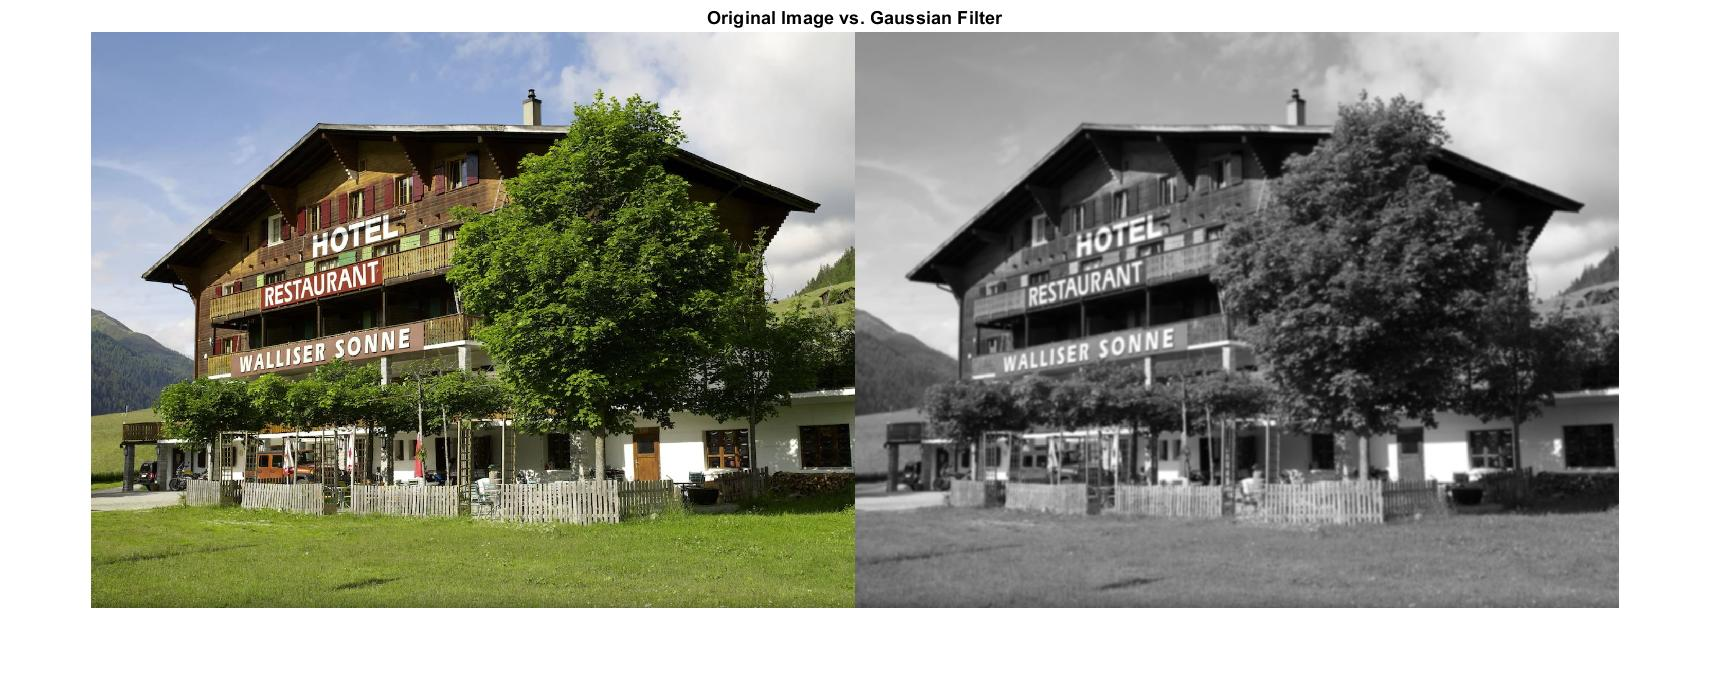
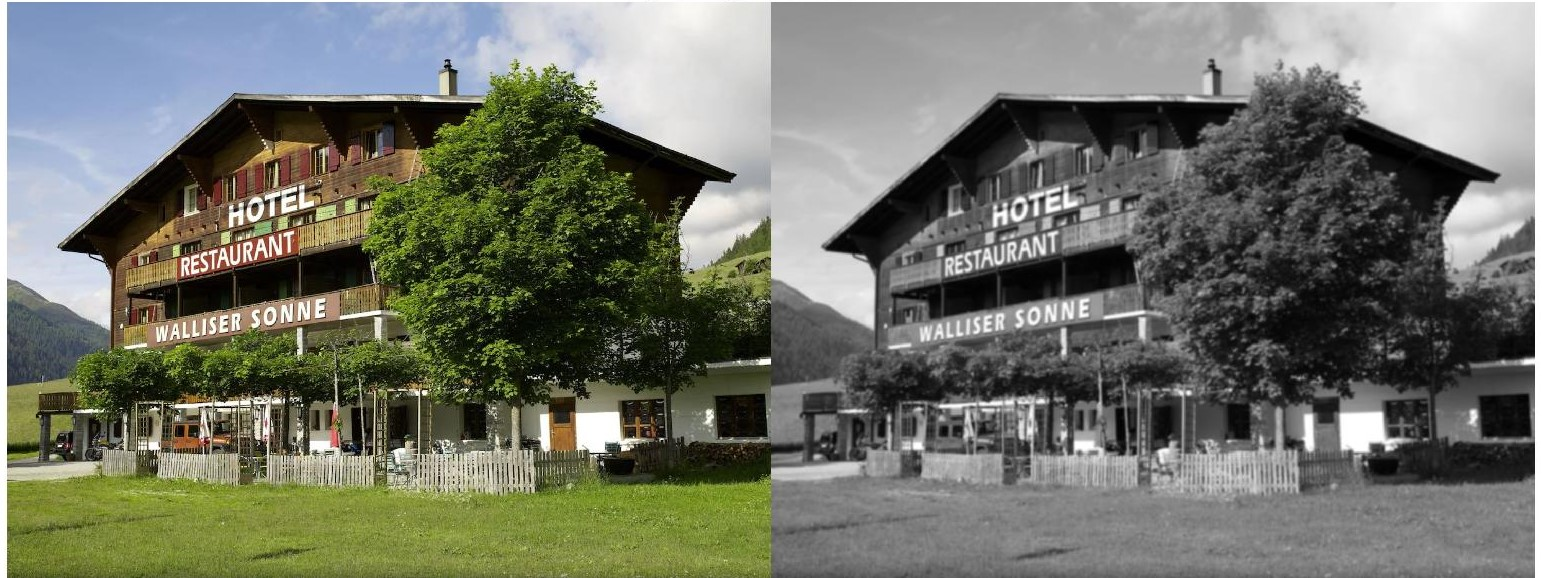
finished Sobel section

diff --git a/sobelFilter.html b/sobelFilter.html
@@ -42,31 +42,43 @@
                     <h2>Image Filtering for Mapping</h2>
                     <p>Personal Project - December 2022</p>
                 </header>
+                
+                <span class="image fit"><img src="images/sobel/montage.jpg" alt="Sobel Edge Detection Output" /></span>
 
                 <!-- Background -->
                 <section id="background">
                     <h2>Background</h2>
                     <p>
-                        Robotics is an interdisciplinary field requiring expertise in computer science, mechanical design, electronics, and applied mathematics. Autonomous robots often rely on image 
-                        processing to navigate and make decisions effectively. This project focuses on a crucial aspect of robotics: reducing the computational burden of image data through filtering.
+                        Modern autonomous robots rely heavily on imaging in order to navigate their environments. Imaging technology comes
+                        in a variety of styles ranging from Lidar to standard cameras that operate within the visible spectrum. Cameras provide
+                        the robot with necessary information for path planning and localization. Yet, there is an inherent problem with imaging
+                        technology: it is too information-dense. What does this mean? A typical camera provides a surfeit of data every second.
+                        It is not possible for modern day computers to handle such a volume of information at a rate that is useful for real-time
+                        autonomous decision making. Thus, the data must be filtered. Processing and filtering image data allows the controller
+                        of the robot to parse necessary information in order to make decisions. The speed, accuracy, and efficiency of this filtering
+                        is key to the performance of an autonomous agent. For this project I have built a filter that takes an image input and
+                        returns the edges of the objects within it, commonly known as a Gaussian Filter with the Sobel Operator.
                     </p>
                 </section>
 
                 <!-- Importance of Filtering -->
                 <section id="importance">
                     <h2>The Importance of Filtering and Edge Detection</h2>
-                    <p>Robotic systems equipped with cameras generate vast amounts of data. For example, a camera with a resolution of 1920x1080 operating at 30 frames per second produces 
+                    <p>Robotic systems equipped with cameras generate vast amounts of data. For example, a camera with a resolution of 1920&times;1080 operating at 30 frames per second produces 
                         approximately:</p>
 
                     <p>$$
-                        \underbrace{1920 \times 1080}_{\text{Resolution}} \times 
+                        \underbrace{1920 \times 1080}_{\text{Resolution (W$\times$H)}} \times 
                         \underbrace{3}_{\text{Color channels}}\times 
                         \underbrace{30}_{\text{Frame rate}} = 
                         1.87 \times 10^8 \, \text{bytes/second.}
                         $$
                     </p>    
-                    <p>This data load is computationally prohibitive for real-time processing. Filters reduce data volume while retaining information critical to robot tasks like path planning 
-                        and object detection. This project implements convolution-based filters, which efficiently process image data using mathematical operations.
+                    <p>
+                        This data load is computationally prohibitive for real-time processing, especially when considering the small on-board computers typically used 
+                        in autonomous platforms. Filters reduce data volume while retaining information critical to robot tasks like path planning 
+                        and object detection. This project implements convolution-based filters, which efficiently process image data using numerical convolution in 
+                        <b>O(W &times; H)</b> computational time.
                     </p>
                 </section>
 
@@ -79,42 +91,139 @@
                     </p>
                     <p>For images, we use a discrete form:</p>
                     <p>
-                        $$ (f * g)[x, y] = \sum_{i=-n}^n \sum_{j=-m}^m f[x - i, y - j]g[i, j], $$
+                        $$ (f * g)[x, y] = \sum_{i=-n}^n \sum_{j=-m}^m f[x - i, y - j]g[i, j] \textrm{, where } n \textrm{, }m \textrm{ is the size of }f[x,y], $$
                     </p>
-                    <p>where \( f \) is the image and \( g \) is the filter kernel. The Gaussian filter smooths images by applying a weighted average, while the Sobel filter detects edges by computing pixel intensity gradients.</p>
+                    <p>where \( f(x,y) \) is the image and \( g(i,j) \) is the filter kernel.</p>
                 </section>
 
                 <!-- Gaussian Denoising Filter -->
                 <section id="gaussian">
-                    <h2>Gaussian Denoising Filter</h2>
-                    <p>The Gaussian filter reduces noise by averaging pixel values based on a Gaussian distribution. Its kernel matrix can be represented as:</p>
+                    <h3>Gaussian Denoising Filter</h3>
+                    <span class="image fit"><img src="images/sobel/WalliserInpt.jpg" alt="Sobel Edge Detection Output" /></span>
+                    <p>
+                        Let's walk through processing the above image. While it is certainly a lovely photo, there is all sorts of extraneous data that our robot doesn't need to process. 
+                        First, we will process it with a Gaussian filter, and secondly we will use a Sobel filter to extract the edges. <br>The Gaussian filter reduces noise by averaging pixel values based on a Gaussian distribution. Its kernel matrix can be represented as:</p>
                     <p>
                         $$ g[x, y] = \begin{bmatrix} 1 & 1 & 1 \\ 1 & 2 & 1 \\ 1 & 1 & 1 \end{bmatrix}. $$
                     </p>
                     <p>The weight (\( \sigma \)) determines the influence of neighboring pixels. After applying this filter, the image is significantly smoothed, making subsequent edge detection more effective.</p>
+                    <span class="image fit"><img src="images/sobel/Gaussfilt.jpg" alt="Sobel Edge Detection Output" /></span>
+                    <p>
+                        The diagram above shows a sample image (left) and a denoised image (right). To reduce data size, the color values at each place were 
+                        replaced with a brightness value, making the image black-and-white. The right image should look slightly blurred compared to the original, which is the desired effect of the denoising.
+                    </p>
                 </section>
 
                 <!-- Sobel Edge Detection -->
                 <section id="sobel">
-                    <h2>The Sobel Operator</h2>
-                    <p>The Sobel filter calculates gradients in horizontal (\( S_x \)) and vertical (\( S_y \)) directions:</p>
+                    <h3>The Sobel Operator</h3>
                     <p>
-                        $$ S_x = \begin{bmatrix} 1 & 0 & -1 \\ 2 & 0 & -2 \\ 1 & 0 & -1 \end{bmatrix}, \quad
-                        S_y = \begin{bmatrix} 1 & 2 & 1 \\ 0 & 0 & 0 \\ -1 & -2 & -1 \end{bmatrix}. $$
+                        Next, we will convolve this image with the Sobel Filter, in order to reduce the image to its edges and pertinent
+                        information. The Sobel filter consists of two basis kernels \(s_x \) and \(s_y \), each of which are convolved with our image, \(f(x,y)\)
+                        and then summed in order to generate the filtered image. The kernels essentially take a directional gradient along the \(x \) and \(y \) axes at each point of
+                        the matrix, and thus each kernel operates in only one direction. To retrieve the final construction, the magnitude of the
+                        gradient at each pixel must be taken. The kernels take the form:
                     </p>
-                    <p>To compute edge intensity, the gradient magnitude is calculated as:</p>
                     <p>
-                        $$ G = \sqrt{(S_x * f)^2 + (S_y * f)^2}. $$
+                        $$ s_x = \begin{bmatrix} 1 & 0 & -1 \\ 2 & 0 & -2 \\ 1 & 0 & -1 \end{bmatrix}, \quad
+                        s_y = \begin{bmatrix} 1 & 2 & 1 \\ 0 & 0 & 0 \\ -1 & -2 & -1 \end{bmatrix}. $$
+                    </p>
+                    <p>
+                        Now, we can convolve our image, \( f(x,y)\), with the kernels and compute the magnitude of the directional components of the gradient to illustrate the edge density:
+                    </p>
+                    <p>
+                       $$ G_x =          
+                        \begin{bmatrix}
+                            1 & 0 & -1 \\
+                            2 & 0 & -2 \\
+                            1 & 0 & -1 
+                        \end{bmatrix}
+                        \ast f[x,y], \quad G_y = 
+                        \begin{bmatrix}
+                            1 & 2 & 1 \\
+                            0 & 0 & 0 \\
+                            -1 & -2 & -1 
+                        \end{bmatrix} 
+                        \ast f[x,y]. $$
+                    </p>
+                    <p>
+                        Lastly, with the uni-directional gradient values calculated, the magnitude can be calculated:
+                    </p>
+                    <p>
+                        $$ G[a,b] = \sqrt{G_x[a,b]^2 + G_y[a,b]^2} \quad \forall \left | a \right |,\left | b \right | \leq m,n. $$
                     </p>
                     <p>The result is an edge-detected image, retaining essential features for robot path planning while discarding redundant data.</p>
-                    <span class="image fit"><img src="images/metamaterial/sobel_output.png" alt="Sobel Edge Detection Output" /></span>
+                    <div style="text-align: center;">
+                        <img src="images/sobel/filt.jpg" alt="" style="display: block; margin: 0 auto; max-width: 80%;" />
+                    </div>
+                    <p>
+                        <br>Note that there is still a considerable amount of noise in this image. The simplest method to do away with this unwanted data is to 
+                        delete any pixel value beneath a certain threshold, leaving the desired edges extracted from the image:<br>
+                    </p>
+                    <div style="text-align: center;">
+                        <img src="images/sobel/edge.jpg" alt="" style="display: block; margin: 0 auto; max-width: 80%;" />
+                    </div>
+                    <p><br></p>
+                    <h3>Importance of the Gaussian Filter</h3>
+                    <p>
+                        It is important to note the importance of the Gaussian filter in this process. Without it, the filtered image would lack much of the necessary noise reduction. 
+                        Below is an image convolved with the Sobel filters without prior denoising. Note the large amount of leftover noise that passed the threshold test:<br>
+                    </p>
+                    <div style="text-align: center;">
+                        <img src="images/sobel/WalliserEdge.jpg" alt="" style="display: block; margin: 0 auto; max-width: 80%;" />
+                    </div>
+                    <p><br></p>
                 </section>
 
                 <!-- Analysis and Conclusion -->
                 <section id="conclusion">
                     <h2>Analysis and Conclusion</h2>
-                    <p>The processed image is orders of magnitude smaller than the original, reducing the computational expense of localization and decision-making. Without preprocessing, robots cannot handle the raw data load effectively, resulting in delayed or inaccurate actions.</p>
-                    <p>By applying Gaussian smoothing followed by Sobel filtering, this project highlights the critical role of image processing in robotics and demonstrates the practicality of mathematical techniques in solving real-world engineering challenges.</p>
+                    <p>The processed image is orders of magnitude smaller than the original, reducing the computational expense of localization and decision-making. Without preprocessing,
+                         robots cannot handle the raw data load effectively, resulting in delayed or inaccurate actions. In a short set of steps, we have managed to perform a series of calculations that
+                          actually make localization a feasible real-time task. The figure below compares the frequency and intensity of pixel values ranging from 0 to 255 on both the original
+                         image and edge-detected image:
+                    </p>
+
+                         <figure class="image fit">
+                            <img src="images/sobel/histcompare.JPG" alt="Sobel Edge Detection Output" />
+                            <figcaption>(Disregard the difference in magnitude of the axes, it is due to the large number of null values present in the filtered image)</figcaption>
+                          </figure>
+                    <p>The table below shows the difference in size between the original and processed images:</p>
+                        <table  style="border-collapse: collapse; width: 100%;">
+                            <thead>
+                              <tr>
+                                <th>Stage</th>
+                                <th>Size (Bytes)</th>
+                                <th>Reduction from Original</th>
+                              </tr>
+                            </thead>
+                            <tbody>
+                              <tr>
+                                <td>Original RGB Image</td>
+                                <td>6,220,800 (6.22 Mb)</td>
+                                <td>0%</td>
+                              </tr>
+                              <tr>
+                                <td>Grayscale Image</td>
+                                <td>2,073,600 (2.07 Mb)</td>
+                                <td>~67%</td>
+                              </tr>
+                              <tr>
+                                <td>Edge Map</td>
+                                <td>259,200 (259 Kb)</td>
+                                <td>~96%</td>
+                              </tr>
+                            </tbody>
+                          </table>
+                    <p>
+                        The processed image is a handful of kilobytes, compared to the megabytes of the original image. Its pixel-matrix 
+                        representation is full of zeros, which makes computational operations necessary in localization far less expensive than they
+                        otherwise would be. Though these data filtering and image processing techniques are not at the current forefront of the
+                        field, they still do a good job in representing how powerful and necessary image processing is. Without quick access to
+                        good sensor information, a robot cannot make good decisions in real time, and a robot that cannot make good decisions is not a very
+                        good robot in the first place.
+                    </p>
+                          
                 </section>
             </section>
 
